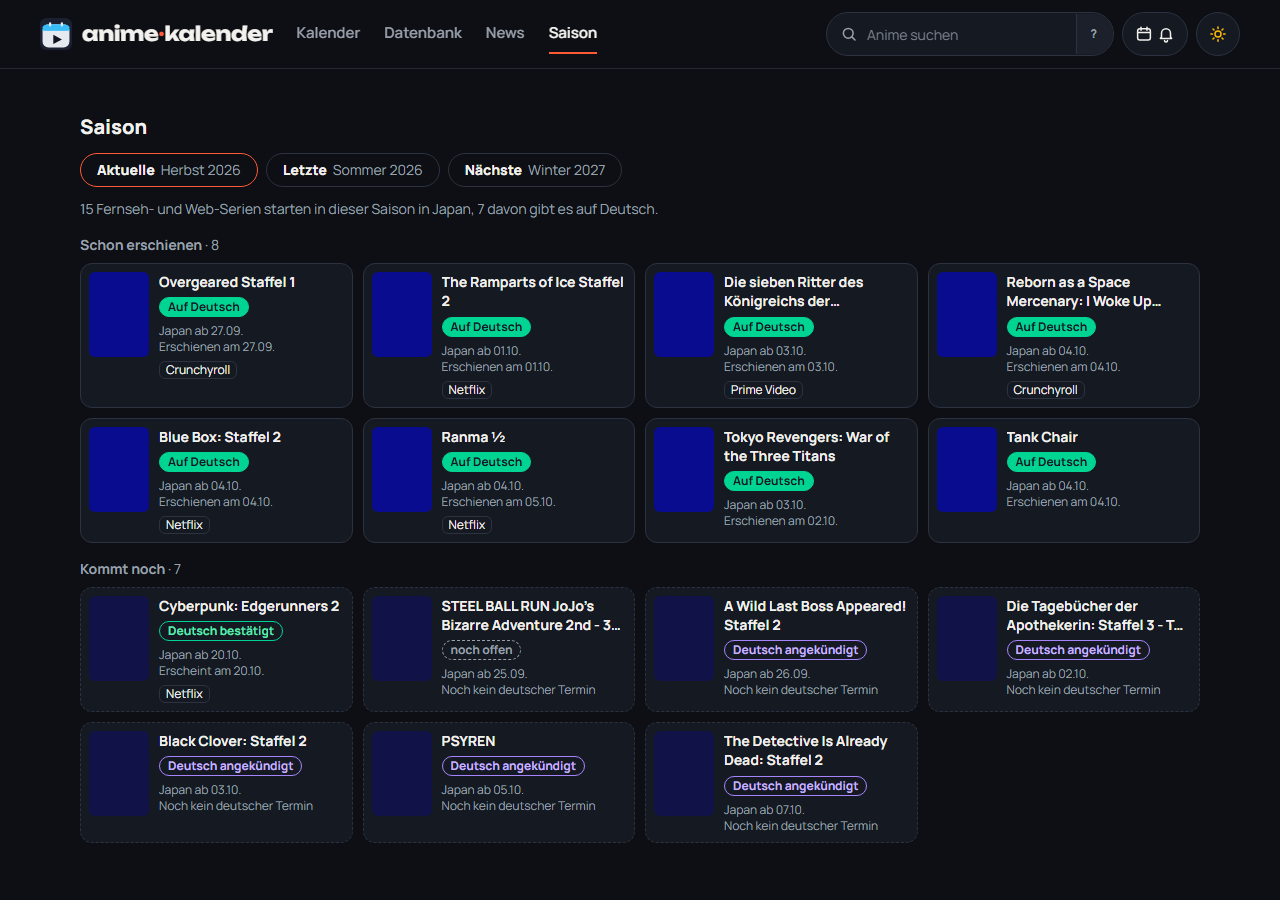
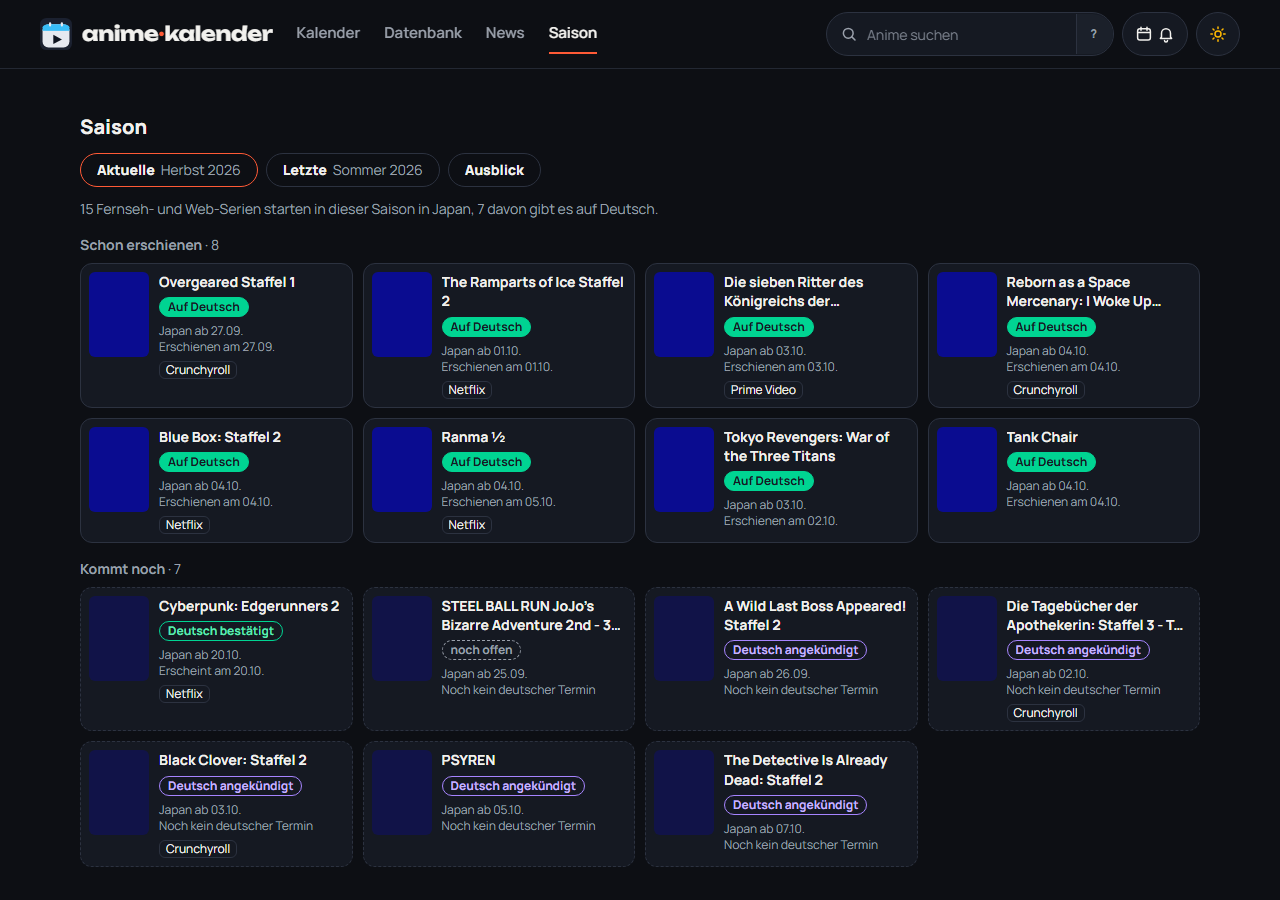
Saison-Ausblick: kommende Saisons mit Japan-Start nach Terminschärfe
Reiter Ausblick gruppiert nach Saison, Jahr und ohne Termin; Japan-Start als Tag, Monat, Saison oder Jahr, deutscher Termin nur wo belegt, Anbieter auch aus der Synchro-Ankündigung. Neue Datei saison-ausblick.json wird erst im Reiter geladen.

diff --git a/web/src/lib/saison-ausblick.ts b/web/src/lib/saison-ausblick.ts
@@ -1,0 +1,73 @@
+import type { Release, Title } from '@shared/types.ts'
+import { istSerie, saisonVon, saisonZeitraum, type SaisonTag } from '@shared/saison.ts'
+import { ersterTermin, hatDeutsch, stufeVon, type SaisonDatei, type SaisonKatalogTitel, type SaisonZeile } from './saison.ts'
+
+/** Eine Gruppe des Ausblicks: eine Saison, ein Jahr ohne bekannte Saison oder „ohne Termin". */
+export interface AusblickGruppe {
+  schluessel: string
+  saison?: SaisonTag
+  jahr?: number
+  zeilen: SaisonZeile[]
+}
+
+/** Die Rangfolge innerhalb einer Gruppe: erst der genaue Tag, dann der Monat, dann Saison und Jahr. */
+const GENAU_RANG = { tag: 0, monat: 1, saison: 2, jahr: 3 } as const
+
+/** Wie genau ein Japan-Start bekannt ist; die Gruppe sagt Saison und Jahr, die Karte nur, was darüber hinausgeht. */
+function genauigkeit(jpStart: string | undefined): SaisonZeile['genau'] {
+  return jpStart?.length === 10 ? 'tag' : jpStart?.length === 7 ? 'monat' : 'jahr'
+}
+
+const sortSchluessel = (z: SaisonZeile): string => `${GENAU_RANG[z.genau ?? 'jahr']}${z.jp ?? ''}`
+
+/**
+ * **Der Ausblick** (Daniel, 09.10.2026): alle Serien, die nach der laufenden Saison starten, nach Saison geordnet — Japan-Start so genau, wie wir ihn kennen
+ * (Tag, Monat, Saison, Jahr), deutscher Termin nur, wo einer belegt oder angekündigt ist. Nichts fällt weg: Titel ohne Saison stehen unter ihrem Jahr,
+ * Titel ohne jedes Datum in der letzten Gruppe. Quellen: Titel des Hauptbestands (`titles`), `saison.json` (`datei`) und `saison-ausblick.json` (`ausblick`).
+ */
+export function ausblickGruppen(
+  titles: Title[],
+  releasesByTitle: Map<number, Release[]>,
+  datei: SaisonDatei | undefined,
+  ausblick: SaisonKatalogTitel[] | undefined,
+  heute: string,
+): AusblickGruppe[] {
+  const jetzt = saisonVon(heute)
+  const nach = saisonZeitraum(jetzt)[1]
+  const saisonen = new Map<string, AusblickGruppe>()
+  const jahre = new Map<number, AusblickGruppe>()
+  const ohne: AusblickGruppe = { schluessel: 'ohne', zeilen: [] }
+  /* Eine Saison bis zur laufenden gehört zu „Aktuelle“ und „Letzte“ und steht deshalb nicht im Ausblick. */
+  const ablegen = (z: SaisonZeile, saison: SaisonTag | undefined, jahr: number | undefined) => {
+    if (saison && saisonZeitraum(saison)[0] > nach) {
+      const schluessel = saisonZeitraum(saison)[0]
+      if (!saisonen.has(schluessel)) saisonen.set(schluessel, { schluessel, saison, zeilen: [] })
+      saisonen.get(schluessel)!.zeilen.push(z)
+    } else if (!saison && jahr !== undefined) {
+      if (!jahre.has(jahr)) jahre.set(jahr, { schluessel: String(jahr), jahr, zeilen: [] })
+      jahre.get(jahr)!.zeilen.push(z)
+    } else if (!saison && jahr === undefined) ohne.zeilen.push(z)
+  }
+  const bekannt = new Set<number>()
+  for (const t of titles) {
+    if (!istSerie(t.format) || !t.jpYear) continue
+    const saison = t.jpSeason ? ({ jahr: t.jpYear, saison: t.jpSeason } as SaisonTag) : undefined
+    if (saison ? saisonZeitraum(saison)[0] <= nach : t.jpYear <= jetzt.jahr) continue
+    const termin = ersterTermin(releasesByTitle.get(t.id))
+    bekannt.add(t.id)
+    const jp = datei?.jp[String(t.id)]
+    ablegen({ id: t.id, titel: t, deutsch: hatDeutsch(t), stufe: stufeVon(t, termin, heute), erschienen: false, jp, genau: jp ? 'tag' : saison ? 'saison' : 'jahr', de: termin?.datum, geschaetzt: termin?.geschaetzt }, saison, t.jpYear)
+  }
+  for (const k of [...(datei?.katalog ?? []), ...(ausblick ?? [])]) {
+    if (bekannt.has(k.id)) continue
+    bekannt.add(k.id)
+    const zeile: SaisonZeile = { id: k.id, katalog: k, deutsch: false, stufe: k.angekuendigt ? 'angekuendigt' : 'offen', erschienen: false, jp: k.jpStart, genau: genauigkeit(k.jpStart) }
+    if (k.jpSeason && k.jpYear) ablegen(zeile, { jahr: k.jpYear, saison: k.jpSeason as SaisonTag['saison'] }, k.jpYear)
+    else if (!k.jpStart) ablegen(zeile, undefined, undefined)
+    else if (k.jpStart.length === 4) ablegen(zeile, undefined, Number(k.jpStart))
+    else ablegen(zeile, saisonVon(k.jpStart.length === 7 ? `${k.jpStart}-01` : k.jpStart), undefined)
+  }
+  const reihe = (g: AusblickGruppe): AusblickGruppe => ({ ...g, zeilen: g.zeilen.sort((a, b) => sortSchluessel(a).localeCompare(sortSchluessel(b)) || a.id - b.id) })
+  const nachSchluessel = (a: AusblickGruppe, b: AusblickGruppe) => a.schluessel.localeCompare(b.schluessel)
+  return [...[...saisonen.values()].sort(nachSchluessel), ...[...jahre.values()].sort(nachSchluessel), ...(ohne.zeilen.length > 0 ? [ohne] : [])].map(reihe)
+}

diff --git a/web/src/components/SaisonKarte.tsx b/web/src/components/SaisonKarte.tsx
@@ -1,5 +1,6 @@
 import { PLATFORMS } from '@shared/types.ts'
 import { anzeigeName } from '@shared/titles.ts'
+import { todayIso } from '@shared/time.ts'
 import { ANILIST_COVER_BASIS } from '@shared/mappings.ts'
 import { loadOhneSynchro, type Dataset } from '../lib/data.ts'
 import { coverBild } from '../lib/cover.ts'
@@ -17,12 +18,21 @@ const STUFE_FARBE: Record<Stufe, string> = {
 }
 
 const tag = (d: string) => `${d.slice(8, 10)}.${d.slice(5, 7)}.`
+const MONATE = ['Januar', 'Februar', 'März', 'April', 'Mai', 'Juni', 'Juli', 'August', 'September', 'Oktober', 'November', 'Dezember']
 
-export function SaisonKarte({ z, data, favorit, oeffne }: { z: SaisonZeile; data: Dataset; favorit: boolean; oeffne: (id: number) => void }) {
+/** Der Japan-Start im Ausblick so genau wie bekannt; Saison und Jahr stehen schon in der Gruppenüberschrift und bleiben hier weg. */
+const jpDatum = (z: SaisonZeile): string | undefined => (z.genau === 'tag' ? tag(z.jp!) : z.genau === 'monat' ? MONATE[Number(z.jp!.slice(5, 7)) - 1] : undefined)
+
+export const zeilenName = (z: SaisonZeile): string => (z.titel ? anzeigeName(z.titel) : (z.katalog!.titleDe ?? z.katalog!.titleEn ?? z.katalog!.titleRomaji ?? String(z.id)))
+
+export function SaisonKarte({ z, data, favorit, oeffne, ausblick }: { z: SaisonZeile; data: Dataset; favorit: boolean; oeffne: (id: number) => void; ausblick?: boolean }) {
   const { t } = useLang()
-  const name = z.titel ? anzeigeName(z.titel) : (z.katalog!.titleDe ?? z.katalog!.titleEn ?? z.katalog!.titleRomaji ?? String(z.id))
+  const name = zeilenName(z)
   const cover = z.titel?.coverImage ?? (z.katalog?.coverImage && !z.katalog.coverImage.startsWith('http') ? ANILIST_COVER_BASIS + z.katalog.coverImage : z.katalog?.coverImage)
-  const anbieter = [...new Set((z.titel?.streams ?? []).filter((s) => s.dub === true).map((s) => PLATFORMS[s.platform]?.name ?? s.platform))].slice(0, 3)
+  /* Anbieter: wo die Synchro läuft — oder, wo sie nur angekündigt ist, der Anbieter der Ankündigung (nicht der des Untertitel-Starts allein). */
+  const angekuendigt = z.titel?.ankuendigung?.synchro === 'angekuendigt' ? [z.titel.ankuendigung.platform] : []
+  const anbieter = [...new Set([...(z.titel?.streams ?? []).filter((s) => s.dub === true).map((s) => s.platform), ...angekuendigt].map((p) => PLATFORMS[p]?.name ?? p))].slice(0, 3)
+  const jp = ausblick ? jpDatum(z) : z.jp && tag(z.jp)
   const rand = favorit ? 'border-amber-400/70 shadow-[0_0_0_1px_rgba(251,191,36,.3)]' : z.erschienen ? 'border-ak-rand hover:border-ak-leise' : 'border-dashed border-ak-rand hover:border-ak-leise'
   /* Ein Katalogtitel liegt hinter dem Schalter: Erst beim Klick wird die große Datei geholt, damit das Panel ihn kennt. */
   const klick = async () => {
@@ -43,8 +53,8 @@ export function SaisonKarte({ z, data, favorit, oeffne }: { z: SaisonZeile; data
             <span className={`rounded-full border px-2 py-px font-bold ${STUFE_FARBE[z.stufe]}`}>{t(`saison.stufe.${z.stufe}` as TranslationKey)}</span>
           </span>
           <span className="flex flex-col text-xs text-ak-leise">
-            {z.jp && <span>{t('saison.jp', { datum: tag(z.jp) })}</span>}
-            <span>{z.de ? t(z.erschienen ? 'saison.erschienenAm' : z.geschaetzt ? 'saison.erscheintVoraussichtlich' : 'saison.erscheintAm', { datum: tag(z.de) }) : t('saison.deOffen')}</span>
+            {jp && <span>{t('saison.jp', { datum: jp })}</span>}
+            {(z.de || !ausblick) && <span>{z.de ? t(z.erschienen ? 'saison.erschienenAm' : z.geschaetzt ? 'saison.erscheintVoraussichtlich' : 'saison.erscheintAm', { datum: ausblick && z.de.slice(0, 4) !== todayIso().slice(0, 4) ? `${tag(z.de)}${z.de.slice(0, 4)}` : tag(z.de) }) : t('saison.deOffen')}</span>}
           </span>
           {anbieter.length > 0 && (
             <span className="flex flex-wrap gap-1 text-xs">

diff --git a/web/src/components/SaisonView.tsx b/web/src/components/SaisonView.tsx
@@ -3,11 +3,12 @@ import { todayIso } from '@shared/time.ts'
 import { loadJson, type Dataset } from '../lib/data.ts'
 import { useLang, type TranslationKey } from '../lib/i18n.tsx'
 import { saisonText, saisonVon, versetzt, zeilenDerSaison, type SaisonDatei, type SaisonZeile } from '../lib/saison.ts'
+import { SaisonAusblick } from './SaisonAusblick.tsx'
 import { SaisonKarte } from './SaisonKarte.tsx'
 
 type Reiter = 'jetzt' | 'zuletzt' | 'ausblick'
 const REITER = { jetzt: 'saison.reiterJetzt', zuletzt: 'saison.reiterZuletzt', ausblick: 'saison.reiterAusblick' } as const
-const HINWEIS = { jetzt: 'saison.hinweisJetzt', zuletzt: 'saison.hinweisZuletzt', ausblick: 'saison.hinweisAusblick' } as const
+const HINWEIS = { jetzt: 'saison.hinweisJetzt', zuletzt: 'saison.hinweisZuletzt' } as const
 
 /**
  * **Der Saison-Überblick** (Daniel, 07.10.2026, Anordnung 2 mit Reitern): aktuelle, letzte und nächste Anime-Saison in einer Ansicht — was davon auf Deutsch zu sehen ist,
@@ -27,7 +28,7 @@ export function SaisonView({ data, favorites, oeffne }: { data: Dataset; favorit
     }
   }, [])
   const zeilen = useMemo(
-    () => zeilenDerSaison(data.titles, data.releasesByTitle, saisons[reiter], datei),
+    () => (reiter === 'ausblick' ? [] : zeilenDerSaison(data.titles, data.releasesByTitle, saisons[reiter], datei)),
     [data, datei, reiter, heute.jahr, heute.saison], // eslint-disable-line react-hooks/exhaustive-deps
   )
   const deutsch = zeilen.filter((z) => z.deutsch).length
@@ -58,14 +59,20 @@ export function SaisonView({ data, favorites, oeffne }: { data: Dataset; favorit
             className={`cursor-pointer rounded-full border px-4 py-1.5 text-sm ${r === reiter ? 'border-ak-akzent text-ak-text' : 'border-ak-rand text-ak-text hover:border-ak-leise'}`}
           >
             <span className="font-extrabold">{t(REITER[r])}</span>
-            <span className="ml-1.5 font-normal text-ak-leise">{saisonText(saisons[r])}</span>
+            {r !== 'ausblick' && <span className="ml-1.5 font-normal text-ak-leise">{saisonText(saisons[r])}</span>}
           </button>
         ))}
       </div>
-      <p className="mt-3 text-sm text-ak-leise">{t(zeilen.length === 1 && reiter !== 'ausblick' ? 'saison.hinweisEins' : HINWEIS[reiter], { n: zeilen.length, de: deutsch })}</p>
-      {zeilen.length === 0 && <p className="mt-6 rounded-lg border border-dashed border-ak-rand p-4 text-sm text-ak-leise">{t('saison.leer', { saison: saisonText(saisons[reiter]) })}</p>}
-      {gruppe(kommt.length > 0 && erschienen.length > 0 ? 'saison.erschienen' : undefined, erschienen)}
-      {gruppe(erschienen.length > 0 ? 'saison.kommt' : undefined, kommt)}
+      {reiter === 'ausblick' ? (
+        <SaisonAusblick data={data} datei={datei} favorites={favorites} oeffne={oeffne} />
+      ) : (
+        <>
+          <p className="mt-3 text-sm text-ak-leise">{t(zeilen.length === 1 ? 'saison.hinweisEins' : HINWEIS[reiter], { n: zeilen.length, de: deutsch })}</p>
+          {zeilen.length === 0 && <p className="mt-6 rounded-lg border border-dashed border-ak-rand p-4 text-sm text-ak-leise">{t('saison.leer', { saison: saisonText(saisons[reiter]) })}</p>}
+          {gruppe(kommt.length > 0 && erschienen.length > 0 ? 'saison.erschienen' : undefined, erschienen)}
+          {gruppe(erschienen.length > 0 ? 'saison.kommt' : undefined, kommt)}
+        </>
+      )}
     </section>
   )
 }

diff --git a/web/src/components/SaisonAusblick.tsx b/web/src/components/SaisonAusblick.tsx
@@ -1,0 +1,62 @@
+import { useEffect, useMemo, useState } from 'react'
+import { saisonText } from '@shared/saison.ts'
+import { todayIso } from '@shared/time.ts'
+import { loadJson, loadOhneSynchro, type Dataset } from '../lib/data.ts'
+import { useLang } from '../lib/i18n.tsx'
+import type { SaisonDatei, SaisonKatalogTitel, SaisonZeile } from '../lib/saison.ts'
+import { ausblickGruppen, type AusblickGruppe } from '../lib/saison-ausblick.ts'
+import { SaisonKarte, zeilenName } from './SaisonKarte.tsx'
+
+/**
+ * **Der Ausblick** (Daniel, 09.10.2026): alle kommenden Saisons mit Karten, Japan-Start und deutscher Termin so genau wie bekannt. Die erste Gruppe steht offen, die
+ * weiteren sind eingeklappt — ihre Titelbilder laden erst beim Aufklappen. Die Datei `saison-ausblick.json` wird erst geholt, wenn dieser Reiter offen ist.
+ */
+export function SaisonAusblick({ data, datei, favorites, oeffne }: { data: Dataset; datei: SaisonDatei | undefined; favorites: Set<number>; oeffne: (id: number) => void }) {
+  const { t } = useLang()
+  const [ausblick, setAusblick] = useState<SaisonKatalogTitel[]>()
+  useEffect(() => {
+    let aktiv = true
+    void loadJson<{ katalog: SaisonKatalogTitel[] }>('saison-ausblick.json').then((d) => aktiv && setAusblick(d.katalog)).catch(() => undefined)
+    return () => {
+      aktiv = false
+    }
+  }, [])
+  const gruppen = useMemo(() => ausblickGruppen(data.titles, data.releasesByTitle, datei, ausblick, todayIso()), [data, datei, ausblick])
+  const anzahl = gruppen.reduce((n, g) => n + g.zeilen.length, 0)
+  return (
+    <>
+      <p className="mt-3 text-sm text-ak-leise">{t('saison.hinweisAusblick', { n: anzahl })}</p>
+      {gruppen.map((g, i) => (
+        <details key={g.schluessel} open={i === 0} className="mt-4">
+          <summary className="cursor-pointer text-sm font-bold text-ak-leise">
+            {g.saison ? saisonText(g.saison) : g.jahr ? t('saison.jahrOffen', { jahr: g.jahr }) : t('saison.ohneTermin')} <span className="font-normal">· {g.zeilen.length}</span>
+          </summary>
+          {g.schluessel === 'ohne' ? <OhneTermin g={g} data={data} oeffne={oeffne} /> : (
+            <ul className="mt-2 grid grid-cols-1 gap-2.5 sm:grid-cols-2 lg:grid-cols-3 xl:grid-cols-4">
+              {g.zeilen.map((z) => (
+                <SaisonKarte key={z.id} z={z} data={data} favorit={favorites.has(z.id)} oeffne={oeffne} ausblick />
+              ))}
+            </ul>
+          )}
+        </details>
+      ))}
+    </>
+  )
+}
+
+/** Titel ohne jedes Datum: nur Namen, ohne Titelbild — es sind viele, und sie haben nichts zu zeigen außer dem Namen. */
+function OhneTermin({ g, data, oeffne }: { g: AusblickGruppe; data: Dataset; oeffne: (id: number) => void }) {
+  const klick = async (z: SaisonZeile) => {
+    if (!z.titel) await loadOhneSynchro(data)
+    oeffne(z.id)
+  }
+  return (
+    <ul className="mt-2 columns-1 gap-4 text-sm sm:columns-2 lg:columns-3">
+      {g.zeilen.map((z) => (
+        <li key={z.id} className="break-inside-avoid py-0.5">
+          <button type="button" onClick={() => void klick(z)} className="cursor-pointer text-left hover:underline">{zeilenName(z)}</button>
+        </li>
+      ))}
+    </ul>
+  )
+}

diff --git a/pipeline/bau/saison-datei.ts b/pipeline/bau/saison-datei.ts
@@ -1,6 +1,6 @@
 import { log, readJson, writeJson } from '../lib/util.ts'
 import type { Title } from '../../shared/types.ts'
-import { istSerie, saisonVon, saisonZeitraum, versetzt } from '../../shared/saison.ts'
+import { istSerie, saisonVon, saisonZeitraum, versetzt, type SaisonTag } from '../../shared/saison.ts'
 import { todayIso } from '../../shared/time.ts'
 import { OUT, mitAnkuendigung } from './grundlagen.ts'
 
@@ -26,4 +26,23 @@ export function schreibeSaisonDatei(titles: Map<number, Title>): void {
     .map((t) => ({ id: t.id, titleRomaji: t.titleRomaji, titleEn: t.titleEn, titleDe: t.titleDe, coverImage: t.coverImage, episodes: t.episodes, jpStart: t.jpStartTag!, jpSeason: t.jpSeason, jpYear: t.jpYear, ...(mitAnkuendigung(t).ankuendigung?.synchro === 'angekuendigt' ? { angekuendigt: true } : {}) }))
   writeJson(`${OUT}/saison.json`, { jp, katalog: [...ausBestand, ...katalog] })
   log(`saison.json: ${Object.keys(jp).length} Serien mit Japan-Start, ${katalog.length} angekündigte Katalogtitel der nächsten Saison`)
+  schreibeAusblickDatei(heute, new Set(katalog.map((k) => k.id)))
+}
+
+/** Der späteste Tag, den ein Japan-Start (`JJJJ`, `JJJJ-MM`, `JJJJ-MM-TT`) noch haben kann. */
+const spaetesterTag = (jpStart: string): string => (jpStart.length === 4 ? `${jpStart}-12-31` : jpStart.length === 7 ? `${jpStart}-31` : jpStart)
+
+/**
+ * **`saison-ausblick.json`** (Daniel, 09.10.2026): alle Serien ohne Synchro, die nach der laufenden Saison starten — mit Japan-Start so genau, wie AniList ihn kennt
+ * (`JJJJ-MM-TT`, `JJJJ-MM`, `JJJJ`), und die ohne jedes Datum. Liegt neben `saison.json`, damit nur der Reiter „Ausblick" die rund 70 KB lädt. Titel, die schon in
+ * `saison.json` stehen (Tag in der nächsten Saison), fehlen hier.
+ */
+export function schreibeAusblickDatei(heute: SaisonTag, schonDrin: Set<number>): void {
+  const [, ende] = saisonZeitraum(heute)
+  const katalog = readJson<Title[]>(`${OUT}/ohne-synchro.json`, [])
+    .filter((t) => istSerie(t.format) && !schonDrin.has(t.id))
+    .filter((t) => (t.jpStart ? /^\d{4}(-\d{2}(-\d{2})?)?$/.test(t.jpStart) && spaetesterTag(t.jpStart) > ende : t.jpStatus === 'NOT_YET_RELEASED'))
+    .map((t) => ({ id: t.id, titleRomaji: t.titleRomaji, titleEn: t.titleEn, titleDe: t.titleDe, coverImage: t.jpStart ? t.coverImage : undefined, episodes: t.episodes, jpStart: t.jpStart }))
+  writeJson(`${OUT}/saison-ausblick.json`, { katalog })
+  log(`saison-ausblick.json: ${katalog.length} Serien nach der laufenden Saison (${katalog.filter((k) => !k.jpStart).length} ohne Datum)`)
 }

diff --git a/web/src/lib/saison.ts b/web/src/lib/saison.ts
@@ -12,7 +12,8 @@ export interface SaisonKatalogTitel {
   titleDe?: string
   coverImage?: string
   episodes?: number
-  jpStart: string
+  /** Japan-Start so genau wie bekannt (`JJJJ-MM-TT`, `JJJJ-MM`, `JJJJ`); fehlt, wenn AniList keinen nennt. */
+  jpStart?: string
   /** Die deutsche Fassung ist angekündigt (Anbieter-Lineup), ein Termin fehlt noch. */
   angekuendigt?: boolean
   /** Die Saison laut AniList: gilt vor dem Starttag (ein Start Ende September kann zur Herbst-Saison zählen). */
@@ -26,7 +27,7 @@ export interface SaisonDatei {
 }
 
 /** Der erste Termin je Titel und ob er geschätzt ist. */
-function ersterTermin(releases: Release[] | undefined): { datum: string; geschaetzt: boolean } | undefined {
+export function ersterTermin(releases: Release[] | undefined): { datum: string; geschaetzt: boolean } | undefined {
   const liste = (releases ?? []).flatMap((r) => (r.schedule?.firstEpisodeDate ? [{ datum: r.schedule.firstEpisodeDate, geschaetzt: Boolean(r.schedule.estimated) }] : []))
   return liste.sort((a, b) => a.datum.localeCompare(b.datum))[0]
 }
@@ -60,8 +61,9 @@ export interface SaisonZeile {
   stufe: Stufe
   /** Der erste deutsche Termin liegt in der Vergangenheit oder heute. */
   erschienen: boolean
-  /** Japanischer Starttag, wo bekannt. */
+  /** Japan-Start, wo bekannt; `genau` sagt, wie genau (nur im Ausblick gesetzt). */
   jp?: string
+  genau?: 'tag' | 'monat' | 'saison' | 'jahr'
   /** Erster deutscher Termin, wo einer belegt oder angekündigt ist; `geschaetzt`, wenn er abgeleitet ist. */
   de?: string
   geschaetzt?: boolean
@@ -90,7 +92,7 @@ export function zeilenDerSaison(
   }
   {
     const bekannt = new Set(zeilen.map((z) => z.id))
-    for (const k of datei?.katalog ?? []) if (!bekannt.has(k.id) && (k.jpSeason ? k.jpYear === s.jahr && k.jpSeason === s.saison : k.jpStart >= von && k.jpStart <= bis)) zeilen.push({ id: k.id, katalog: k, deutsch: false, stufe: k.angekuendigt ? 'angekuendigt' : 'offen', erschienen: false, jp: k.jpStart })
+    for (const k of datei?.katalog ?? []) if (!bekannt.has(k.id) && (k.jpSeason ? k.jpYear === s.jahr && k.jpSeason === s.saison : k.jpStart && k.jpStart >= von && k.jpStart <= bis)) zeilen.push({ id: k.id, katalog: k, deutsch: false, stufe: k.angekuendigt ? 'angekuendigt' : 'offen', erschienen: false, jp: k.jpStart })
   }
   return zeilen.sort((a, b) => Number(b.erschienen) - Number(a.erschienen) || Number(b.deutsch) - Number(a.deutsch) || (a.de ?? a.jp ?? '9').localeCompare(b.de ?? b.jp ?? '9') || a.id - b.id)
 }

diff --git a/web/src/lib/i18n-seiten.ts b/web/src/lib/i18n-seiten.ts
@@ -15,11 +15,13 @@ export const TEXTE_SEITEN = {
   'view.saison': 'Saison',
   'saison.reiterJetzt': 'Aktuelle',
   'saison.reiterZuletzt': 'Letzte',
-  'saison.reiterAusblick': 'Nächste',
+  'saison.reiterAusblick': 'Ausblick',
   'saison.hinweisJetzt': '{n} Fernseh- und Web-Serien starten in dieser Saison in Japan, {de} davon gibt es auf Deutsch.',
   'saison.hinweisEins': 'Eine Fernseh- oder Web-Serie startet in dieser Saison in Japan.',
   'saison.hinweisZuletzt': 'Letzte Saison: {n} Serien, {de} davon auf Deutsch.',
-  'saison.hinweisAusblick': 'Nächste Saison: {n} angekündigte Serien. „Noch offen“ heißt: Wir kennen noch keine deutsche Fassung.',
+  'saison.hinweisAusblick': '{n} angekündigte Serien in Japan. „Noch offen“ heißt: Wir kennen noch keine deutsche Fassung.',
+  'saison.jahrOffen': '{jahr}, Saison offen',
+  'saison.ohneTermin': 'Ohne Termin',
   'saison.leer': 'Für {saison} ist noch keine Serie bekannt. Sobald eine angekündigt ist, erscheint sie hier.',
   'saison.stufe.auf-deutsch': 'Auf Deutsch',
   'saison.stufe.bestaetigt': 'Deutsch bestätigt',

diff --git a/pipeline/lib/ausgabe-kennung.ts b/pipeline/lib/ausgabe-kennung.ts
@@ -82,6 +82,8 @@ export function uebersetzeDatei(name: string, daten: unknown, ak: AkVon): unknow
       const s = daten as { jp: Record<string, string>; katalog: Record<string, unknown>[] }
       return { jp: schluessel(s.jp, ak), katalog: liste(s.katalog, (k) => ({ ...k, id: num(k.id, ak) })) }
     }
+    case 'saison-ausblick.json':
+      return { katalog: liste((daten as { katalog: unknown }).katalog, (k) => ({ ...k, id: num(k.id, ak) })) }
     case 'franchises.json':
       return schluessel(daten, ak, (v) => liste(v, (m) => ({ ...m, id: num(m.id, ak), al: m.id })))
     case 'reihen.json':

diff --git a/docs/wissen/datensatz.md b/docs/wissen/datensatz.md
@@ -751,3 +751,7 @@ Die Fußzeile nannte `titleCount` (alle Titel des Hauptbestands) „Anime mit be
 ## Datenschutztext folgt dem Datenfluss (09.10.2026)
 
 `DatenschutzView` (`StaticViews.tsx`) sagte, Favoriten „verlassen dein Gerät nicht“. Tatsächlich gehen sie mit Newsletter-Abgleich (`newsletterSync.ts`, Worker `/favorites`, auch Kalender-Feed) und Web-Push (`push.ts`, Worker `/push/abo`, Endpunkt plus Favoriten, Push-Dienst des Browserherstellers) an den Worker. Dritthosts im Browser: AniList-Bilder, TMDB (schon bei Hover/Touch auf das Cover im Panel per `preconnect`, `cover-max.tsx`; größeres Plakat und w92-Vergleich beim Öffnen der Vergrößerung), YouTube-nocookie erst beim Abspielen, graphql.anilist.co beim AniList-Import. Wer einen neuen Aufruf zu einem fremden Host oder neue Daten an den Worker einbaut, ergänzt den Text im selben Zug. Keine Rechtsprüfung; DSGVO-Pflichten unverändert.
+
+## Saison-Ausblick: kommende Saisons nach Terminschärfe (09.10.2026)
+
+Reiter „Ausblick“ der Saison-Ansicht (`SaisonAusblick.tsx`, Gruppenbildung `web/src/lib/saison-ausblick.ts`). Quellen: Hauptbestand (`jpYear`/`jpSeason`), `saison.json` und die eigene, erst im Reiter nachgeladene `saison-ausblick.json` (Bau: `pipeline/bau/saison-datei.ts`, Serien aus `ohne-synchro.json` nach der laufenden Saison, auch ohne Datum; Stand 09.10.2026: 364 Einträge, 12,5 KB gzip). Japan-Start steht so genau wie AniList ihn kennt (Tag, Monat, Saison, Jahr); die Gruppenüberschrift trägt Saison oder Jahr, die Karte nur Tag/Monat. Ein deutscher Termin erscheint nur, wo einer belegt ist (`estimated` → „voraussichtlich“); Anbieter sind die der Synchro oder der Synchro-Ankündigung. Nichts fällt weg: Titel ohne Saison stehen unter ihrem Jahr, Titel ohne jedes Datum unter „Ohne Termin“ (nur Namen, ohne Cover). Messung 09.10.2026 (Serien ohne Synchro, nach der laufenden Saison): 61 mit Monat, 64 mit Jahr, 239 ohne Datum; mit Tag nur die der nächsten Saison (in `saison.json`).
